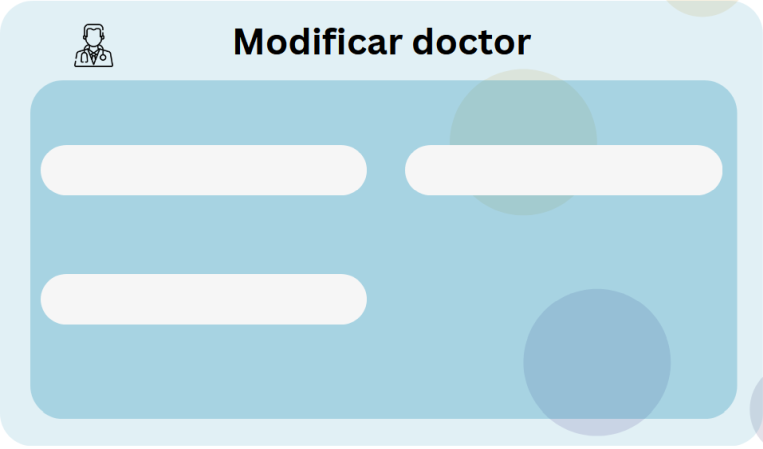
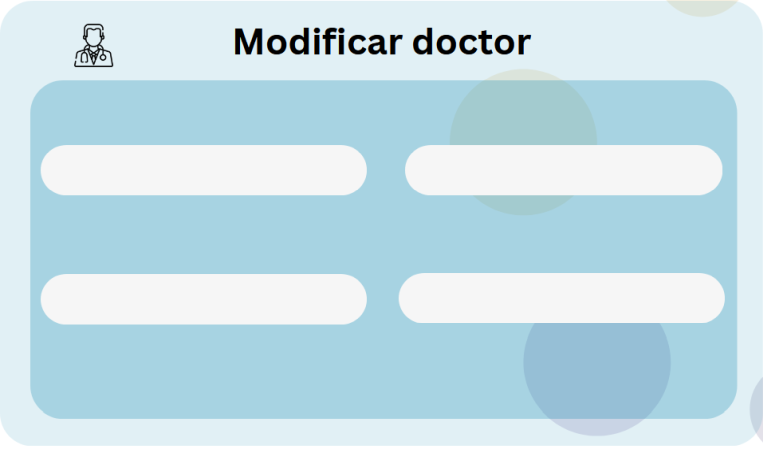
ModificarDoctor funcionalidad

Changed region(s): [[0.5125, 0.5924, 0.9646, 0.7171]]

diff --git a/dentiapp/src/Vista/ModificarDoctorDialog.java b/dentiapp/src/Vista/ModificarDoctorDialog.java
@@ -3,15 +3,31 @@ package Vista;
 import java.awt.BorderLayout;
 import java.awt.FlowLayout;
 
+import javax.swing.DefaultComboBoxModel;
 import javax.swing.ImageIcon;
 import javax.swing.JButton;
+import javax.swing.JComboBox;
 import javax.swing.JDialog;
 import javax.swing.JPanel;
 import javax.swing.border.EmptyBorder;
+import javax.swing.border.MatteBorder;
+
+import Controlador.ConexionMySQL;
+import Controlador.ControladorSQL;
+import Modelo.Especialidad;
+
 import javax.swing.JLabel;
+import javax.swing.JOptionPane;
+
 import paqGUI.BotonPersonalizadoBean;
 import java.awt.Font;
 import java.awt.event.ActionListener;
+import java.awt.event.KeyAdapter;
+import java.awt.event.KeyEvent;
+import java.sql.ResultSet;
+import java.sql.SQLException;
+import java.util.ArrayList;
+import java.util.List;
 import java.awt.event.ActionEvent;
 import java.awt.Color;
 import javax.swing.JTextField;
@@ -20,7 +36,10 @@ public class ModificarDoctorDialog extends JDialog {
 
 	private static final long serialVersionUID = 1L;
 	private final JPanel contentPanel = new JPanel();
-	private JTextField txtEstamosTrabajandoEn;
+	private JTextField txtDoctor;
+	private DefaultComboBoxModel modeloDatos = new DefaultComboBoxModel();
+	private ControladorSQL con = new ControladorSQL();
+	private JTextField txtNombre;
 
 	/**
 	 * Launch the application.
@@ -44,43 +63,121 @@ public class ModificarDoctorDialog extends JDialog {
 		setLocationRelativeTo(null);	
 		setResizable(false);
 		setUndecorated(true);
-		setBounds(100, 100, 781, 486);
+		setBounds(100, 100, 764, 451);
 		getContentPane().setLayout(new BorderLayout());
 		contentPanel.setBorder(new EmptyBorder(5, 5, 5, 5));
 		getContentPane().add(contentPanel, BorderLayout.CENTER);
 		contentPanel.setLayout(null);
 		
-		BotonPersonalizadoBean btnprsnlzdbnCerrar = new BotonPersonalizadoBean();
-		btnprsnlzdbnCerrar.addActionListener(new ActionListener() {
+		JComboBox cmbDr = new JComboBox();
+		cmbDr.setBounds(58, 274, 55, 50);
+		contentPanel.add(cmbDr);
+		String[] opciones = {"Dr.", "Dra."};
+		cmbDr.setModel(new DefaultComboBoxModel<>(opciones));
+		
+		
+		JComboBox cmbEspecialidad = new JComboBox();
+		cmbEspecialidad.setBounds(419, 274, 291, 47);
+		contentPanel.add(cmbEspecialidad);
+		
+		cmbEspecialidad.setModel(rellenarDatos("especialidad","nombre",modeloDatos));
+		
+		txtNombre = new JTextField();
+		txtNombre.setColumns(10);
+		txtNombre.setBounds(119, 277, 225, 47);
+		txtNombre.setBorder(new MatteBorder(0, 0, 1, 0, (Color) new Color(0, 0, 0)));
+		txtNombre.setBackground(new Color(246, 246, 246));
+		contentPanel.add(txtNombre);
+		
+		JComboBox cmbDoctor = new JComboBox();
+		cmbDoctor.setBounds(58, 147, 291, 47);
+		contentPanel.add(cmbDoctor);
+		
+		txtDoctor = new JTextField();
+		txtDoctor.setBounds(422, 147, 291, 46);
+		txtDoctor.setBorder(new MatteBorder(0, 0, 1, 0, (Color) new Color(0, 0, 0)));
+		txtDoctor.setBackground(new Color(246, 246, 246));
+		contentPanel.add(txtDoctor);
+		txtDoctor.setColumns(10);
+		
+		cmbDoctor.setModel(rellenarDatos("doctor", "nombre", modeloDatos));
+		txtDoctor.addKeyListener(new KeyAdapter() {
+			@Override
+			public void keyReleased(KeyEvent e) {
+
+				cmbDoctor.setModel(rellenarDatos("doctor", "nombre", modeloDatos));
+				String textoBusqueda = txtDoctor.getText().toLowerCase();
+
+				// Filtrar los elementos del combo que coincidan con el texto de búsqueda
+
+				List<String> elementosFiltrados = new ArrayList<>();
+				for (int i = 0; i < cmbDoctor.getItemCount(); i++) {
+					if (cmbDoctor.getItemAt(i).toString().toLowerCase().contains(textoBusqueda)) {
+						elementosFiltrados.add(cmbDoctor.getItemAt(i).toString());
+					}
+				}
+
+				// Actualizar los elementos del combo con los resultados filtrados
+
+				cmbDoctor.setModel(new DefaultComboBoxModel<>(elementosFiltrados.toArray(new String[0])));
+				cmbDoctor.setPopupVisible(true);
+			}
+		});
+		
+		JButton btnAceptar = new JButton("Aceptar");
+		btnAceptar.addActionListener(new ActionListener() {
+			public void actionPerformed(ActionEvent e) {
+				try {
+					String nombre = cmbDr.getSelectedItem().toString() + " " + txtNombre.getText();
+					String especialidad = cmbEspecialidad.getSelectedItem().toString();
+					String idespecialidad = con.selectWhere("especialidad", "idespecialidad", "nombre", especialidad);
+					String iddoctor = con.selectWhere("doctor", "iddoctor", "nombre", cmbDoctor.getSelectedItem().toString());
+					
+					con.modificarDoctor(iddoctor, idespecialidad, nombre);
+					JOptionPane.showMessageDialog(null, "Doctor Modificado con Exito",
+							"Doctor Modificado", JOptionPane.WARNING_MESSAGE,new ImageIcon(CrearDoctorDialog.class.getResource("/fotos/iconoOk.png")));
+					
+				} catch (SQLException e1) {
+					// TODO Auto-generated catch block
+					JOptionPane.showMessageDialog(null, "Error al modificar Doctor - Los datos introducidos no son correctos.\n Asegurese de que el nombre es correcto",
+							"Error al modificar doctor", JOptionPane.WARNING_MESSAGE,new ImageIcon(CrearDoctorDialog.class.getResource("/fotos/iconoNo.png")));
+					e1.printStackTrace();
+				}
+			}
+		});
+		btnAceptar.setBounds(604, 404, 109, 36);
+		contentPanel.add(btnAceptar);
+		
+		JButton btnCancelar = new JButton("Cancelar");
+		btnCancelar.addActionListener(new ActionListener() {
 			public void actionPerformed(ActionEvent e) {
 				dispose();
 			}
 		});
+		btnCancelar.setBounds(485, 404, 109, 36);
+		contentPanel.add(btnCancelar);
 		
-		txtEstamosTrabajandoEn = new JTextField();
-		txtEstamosTrabajandoEn.setEditable(false);
-		txtEstamosTrabajandoEn.setFont(new Font("Tahoma", Font.PLAIN, 46));
-		txtEstamosTrabajandoEn.setText("Estamos trabajando en ello");
-		txtEstamosTrabajandoEn.setBounds(115, 11, 565, 62);
-		contentPanel.add(txtEstamosTrabajandoEn);
-		txtEstamosTrabajandoEn.setColumns(10);
-		btnprsnlzdbnCerrar.setFont(new Font("Tahoma", Font.PLAIN, 37));
-		btnprsnlzdbnCerrar.setTexto("Salir");
-		btnprsnlzdbnCerrar.setBounds(10, 355, 200, 120);
-		contentPanel.add(btnprsnlzdbnCerrar);
+		JLabel lblFondo = new JLabel("");
+		lblFondo.setIcon(new ImageIcon(ModificarDoctorDialog.class.getResource("/fotos/mod_doctor.png")));
+		lblFondo.setBounds(0, 0, 764, 451);
+		contentPanel.add(lblFondo);
 		
-		JLabel lblNewLabel = new JLabel("");
-		lblNewLabel.setIcon(new ImageIcon(ModificarDoctorDialog.class.getResource("/fotos/creando.jpg")));
-		lblNewLabel.setBounds(0, 0, 793, 545);
-		contentPanel.add(lblNewLabel);
 		
-		{
-			{
-				
-			}
-			{
-				
-			}
-		}
 	}
+	
+	public DefaultComboBoxModel rellenarDatos(String nombreTabla, String campo,
+			DefaultComboBoxModel<String> comboDatos) {
+		try {
+
+			comboDatos = (DefaultComboBoxModel<String>) con.rellenarComboBox(nombreTabla, campo);
+
+		} catch (SQLException e1) {
+			// TODO Auto-generated catch block
+			e1.printStackTrace();
+		}
+
+		return comboDatos;
+	}
+	
+	
 }

diff --git a/dentiapp/src/Vista/adminFrame.java b/dentiapp/src/Vista/adminFrame.java
@@ -383,6 +383,7 @@ public class adminFrame extends JFrame {
 			public void actionPerformed(ActionEvent e) {
 				loginFrame login = new loginFrame();
 				login.setVisible(true);
+				login.setLocationRelativeTo(null);
 				dispose();
 			}
 		});
@@ -476,6 +477,7 @@ public class adminFrame extends JFrame {
 					dialDoctor.setModal(true);
 					dialDoctor.setUndecorated(true);
 					dialDoctor.setVisible(true);
+					dialDoctor.setLocationRelativeTo(null);
 				} catch (SQLException e1) {
 					// TODO Auto-generated catch block
 					e1.printStackTrace();
@@ -499,6 +501,7 @@ public class adminFrame extends JFrame {
 					dialDoctor.setModal(true);
 					dialDoctor.setUndecorated(true);
 					dialDoctor.setVisible(true);
+					dialDoctor.setLocationRelativeTo(null);
 					
 					dialDoctor.addWindowListener(new WindowAdapter() {
 						public void windowClosed(WindowEvent e) {
@@ -547,6 +550,15 @@ public class adminFrame extends JFrame {
 		btnActListaPacientes.setForeground(Color.WHITE);
 		
 		JButton btnBorrarPaciente = new JButton("BORRAR");
+		btnBorrarPaciente.addActionListener(new ActionListener() {
+			public void actionPerformed(ActionEvent e) {
+				BorrarPacienteDialog dialog = new BorrarPacienteDialog();
+				dialog.setLocationRelativeTo(null);
+				dialog.setUndecorated(true);
+				dialog.setModal(true);
+				dialog.setVisible(true);
+ 			}
+		});
 		btnBorrarPaciente.setFont(new Font("SansSerif", Font.PLAIN, 10));
 		btnBorrarPaciente.setBounds(228, 457, 85, 21);
 		contentPane.add(btnBorrarPaciente);
@@ -556,6 +568,11 @@ public class adminFrame extends JFrame {
 		JButton btnCrearPaciente = new JButton("CREAR");
 		btnCrearPaciente.addActionListener(new ActionListener() {
 			public void actionPerformed(ActionEvent e) {
+				CrearPacienteDialog dialog = new CrearPacienteDialog();
+				dialog.setModal(true);
+				dialog.setUndecorated(true);
+				dialog.setVisible(true);
+				dialog.setLocationRelativeTo(null);
 			}
 		});
 		btnCrearPaciente.setFont(new Font("SansSerif", Font.PLAIN, 10));

diff --git a/dentiapp/src/Controlador/ControladorSQL.java b/dentiapp/src/Controlador/ControladorSQL.java
@@ -529,5 +529,11 @@ public class ControladorSQL {
 		cn.desconectar();
 		return modeloDatos;
 	}
+	
+	public void modificarDoctor(String iddoctor, String idespecialidad, String nombre) throws SQLException {
+		String consulta = "UPDATE doctor SET fk_idespecialidad = " + idespecialidad + ", nombre = '" + nombre + "' WHERE iddoctor = " + iddoctor;
+		System.out.println(consulta);
+		cn.ejecutarIDU(consulta);
+	}
 
 }
